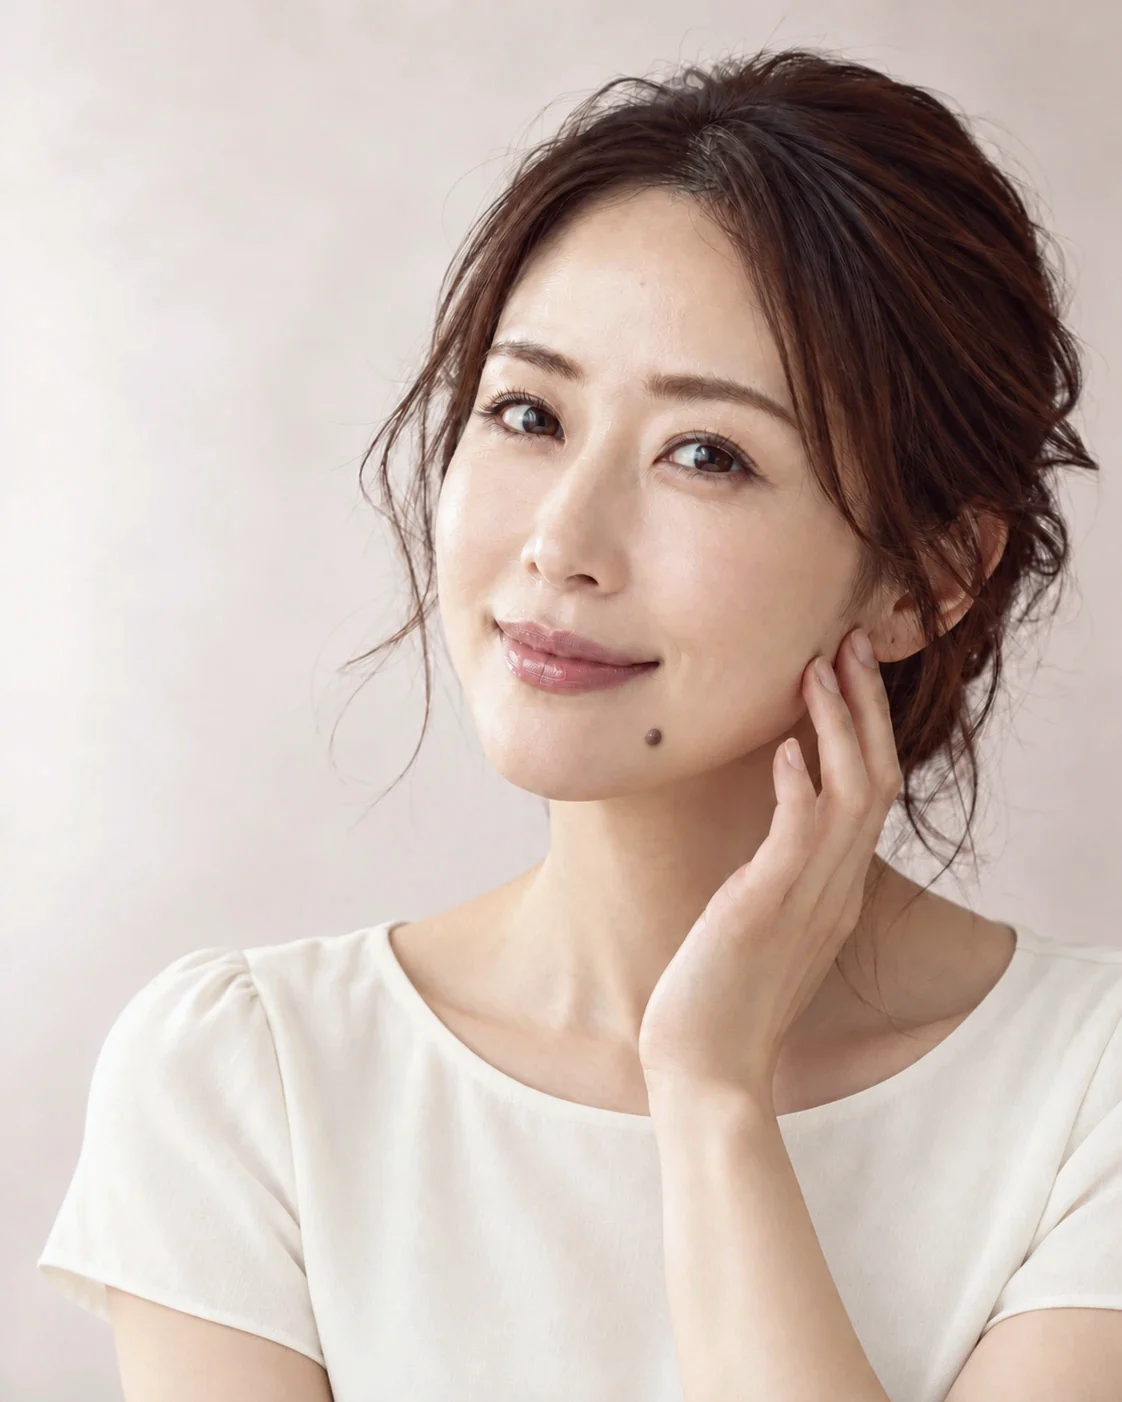
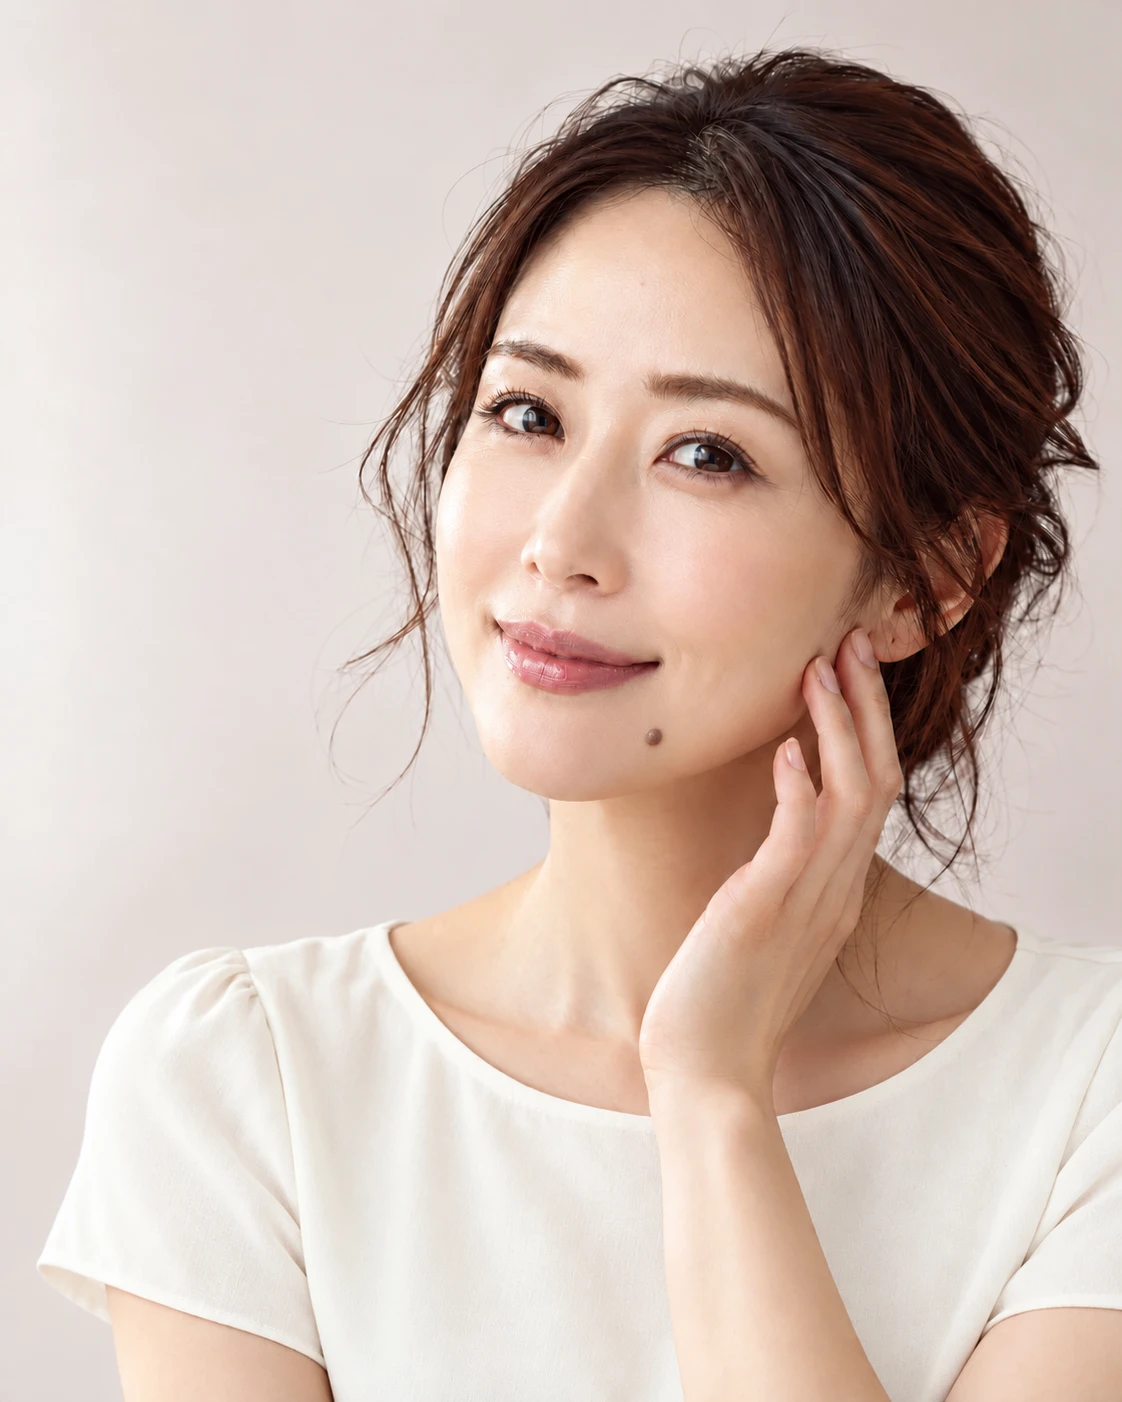
sinnjyukubiyougeka-test: MV画像を差し替え、料金表の初診料・再診料ボックスの余白を詰める

diff --git a/apps/lp/clients/sinnjyukubiyougeka-test/styles.ts b/apps/lp/clients/sinnjyukubiyougeka-test/styles.ts
@@ -320,8 +320,8 @@ export const css = String.raw`
 .sbc .fee-val { font-size: 30px; font-weight: 700; line-height: 1.2; letter-spacing: 0; margin-top: 6px; }
 .sbc .fee-val small { font-size: 14px; }
 .sbc .fee.is-free { background: var(--pink-soft); color: var(--accent); }
-.sbc .fee.is-free .fee-name { font-size: 12.5px; }
-.sbc .fee.is-free .fee-val { font-size: 46px; line-height: 1; margin-top: 6px; }
+.sbc .fee.is-free .fee-name { font-size: 12.5px; margin: 0; }
+.sbc .fee.is-free .fee-val { font-size: 46px; line-height: 1; margin-top: 4px; }
 .sbc .fee.is-free .fee-val small { font-size: 18px; }
 .sbc .pay { margin-top: 44px; }
 .sbc .pay-lead { font-size: 14px; line-height: 1.9; margin: 12px 0 0; }
